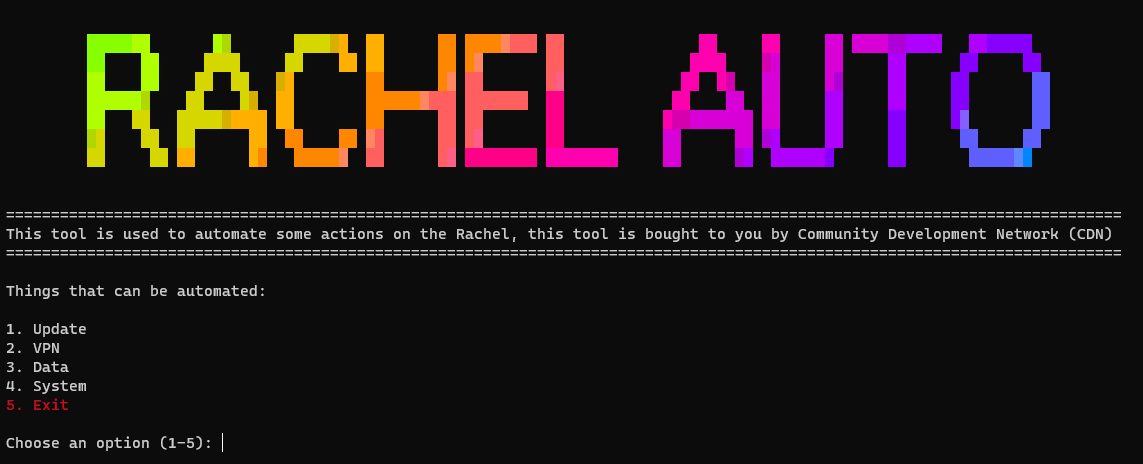
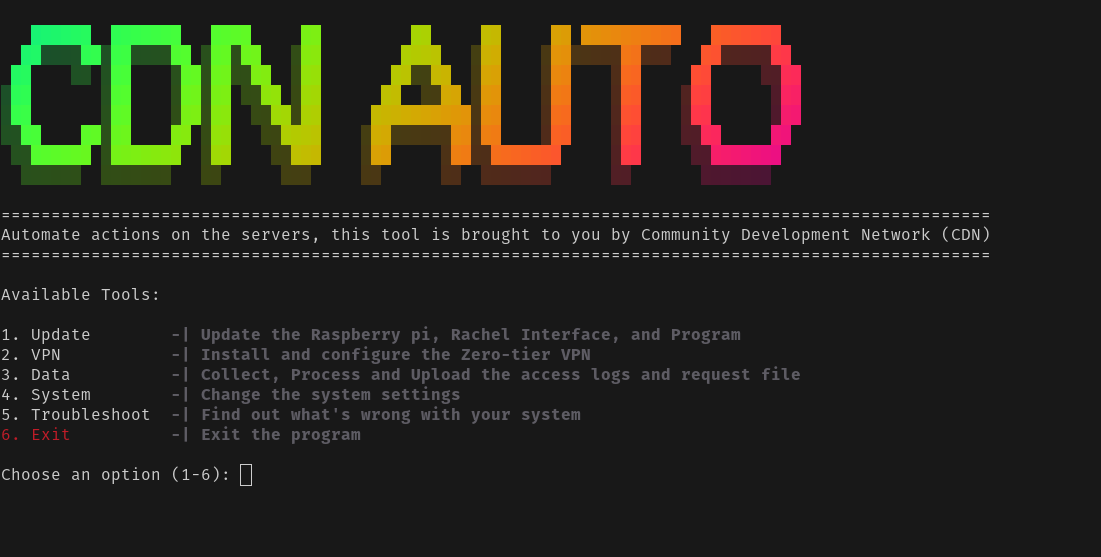
Rename project from Rachel Auto Tool to CDN Auto and update installation instructions in README

Changed region(s): [[0.0, 0.0302, 0.9882, 0.9052], [0.0, 0.9353, 0.1853, 0.9655]]

diff --git a/README.md b/README.md
@@ -1,6 +1,6 @@
-<h1 align="center"> Rachel Auto Tool </h1>
+<h1 align="center"> CDN Auto </h1>
 
-> This is a tool to simplify some of the basic tasks done on the Rachel Pi. It is designed to be run on a Raspberry Pi running the CDN Rachel but will still work on any Rachel OS. It is not designed to be run on a Windows machine.
+> This is a tool to simplify some of the actions done on the CDN Server. It is designed to be run on a Raspberry Pi running the CDN Server but will still work on any Rachel OS. It is not designed to be run on a Windows machine. Do not run the install script on your machine.
 
 <!-- Image -->
 <p align="center">
@@ -8,18 +8,22 @@
 </p>
 
 ## Installation
-```
-git clone https://github.com/ComDevNet/rachel-auto.git
-cd rachel-auto
+
+```bash
+git clone https://github.com/ComDevNet/cdn-auto.git
+cd cdn-auto
 chmod +x install.sh
 ./install.sh
-``` 
+```
 
 ## Usage
-```
+
+```bash
 ./main.sh
 ```
+
 ## Things Simplified
+
 - [x] Update the system
 - [x] Update the Rachel Interface
 - [x] Update Script
@@ -36,3 +40,4 @@ chmod +x install.sh
 - [x] Change Wifi Name
 - [x] Add wifi Password
 - [x] Upload Data to Server
+- [ ] Troubleshoot System
